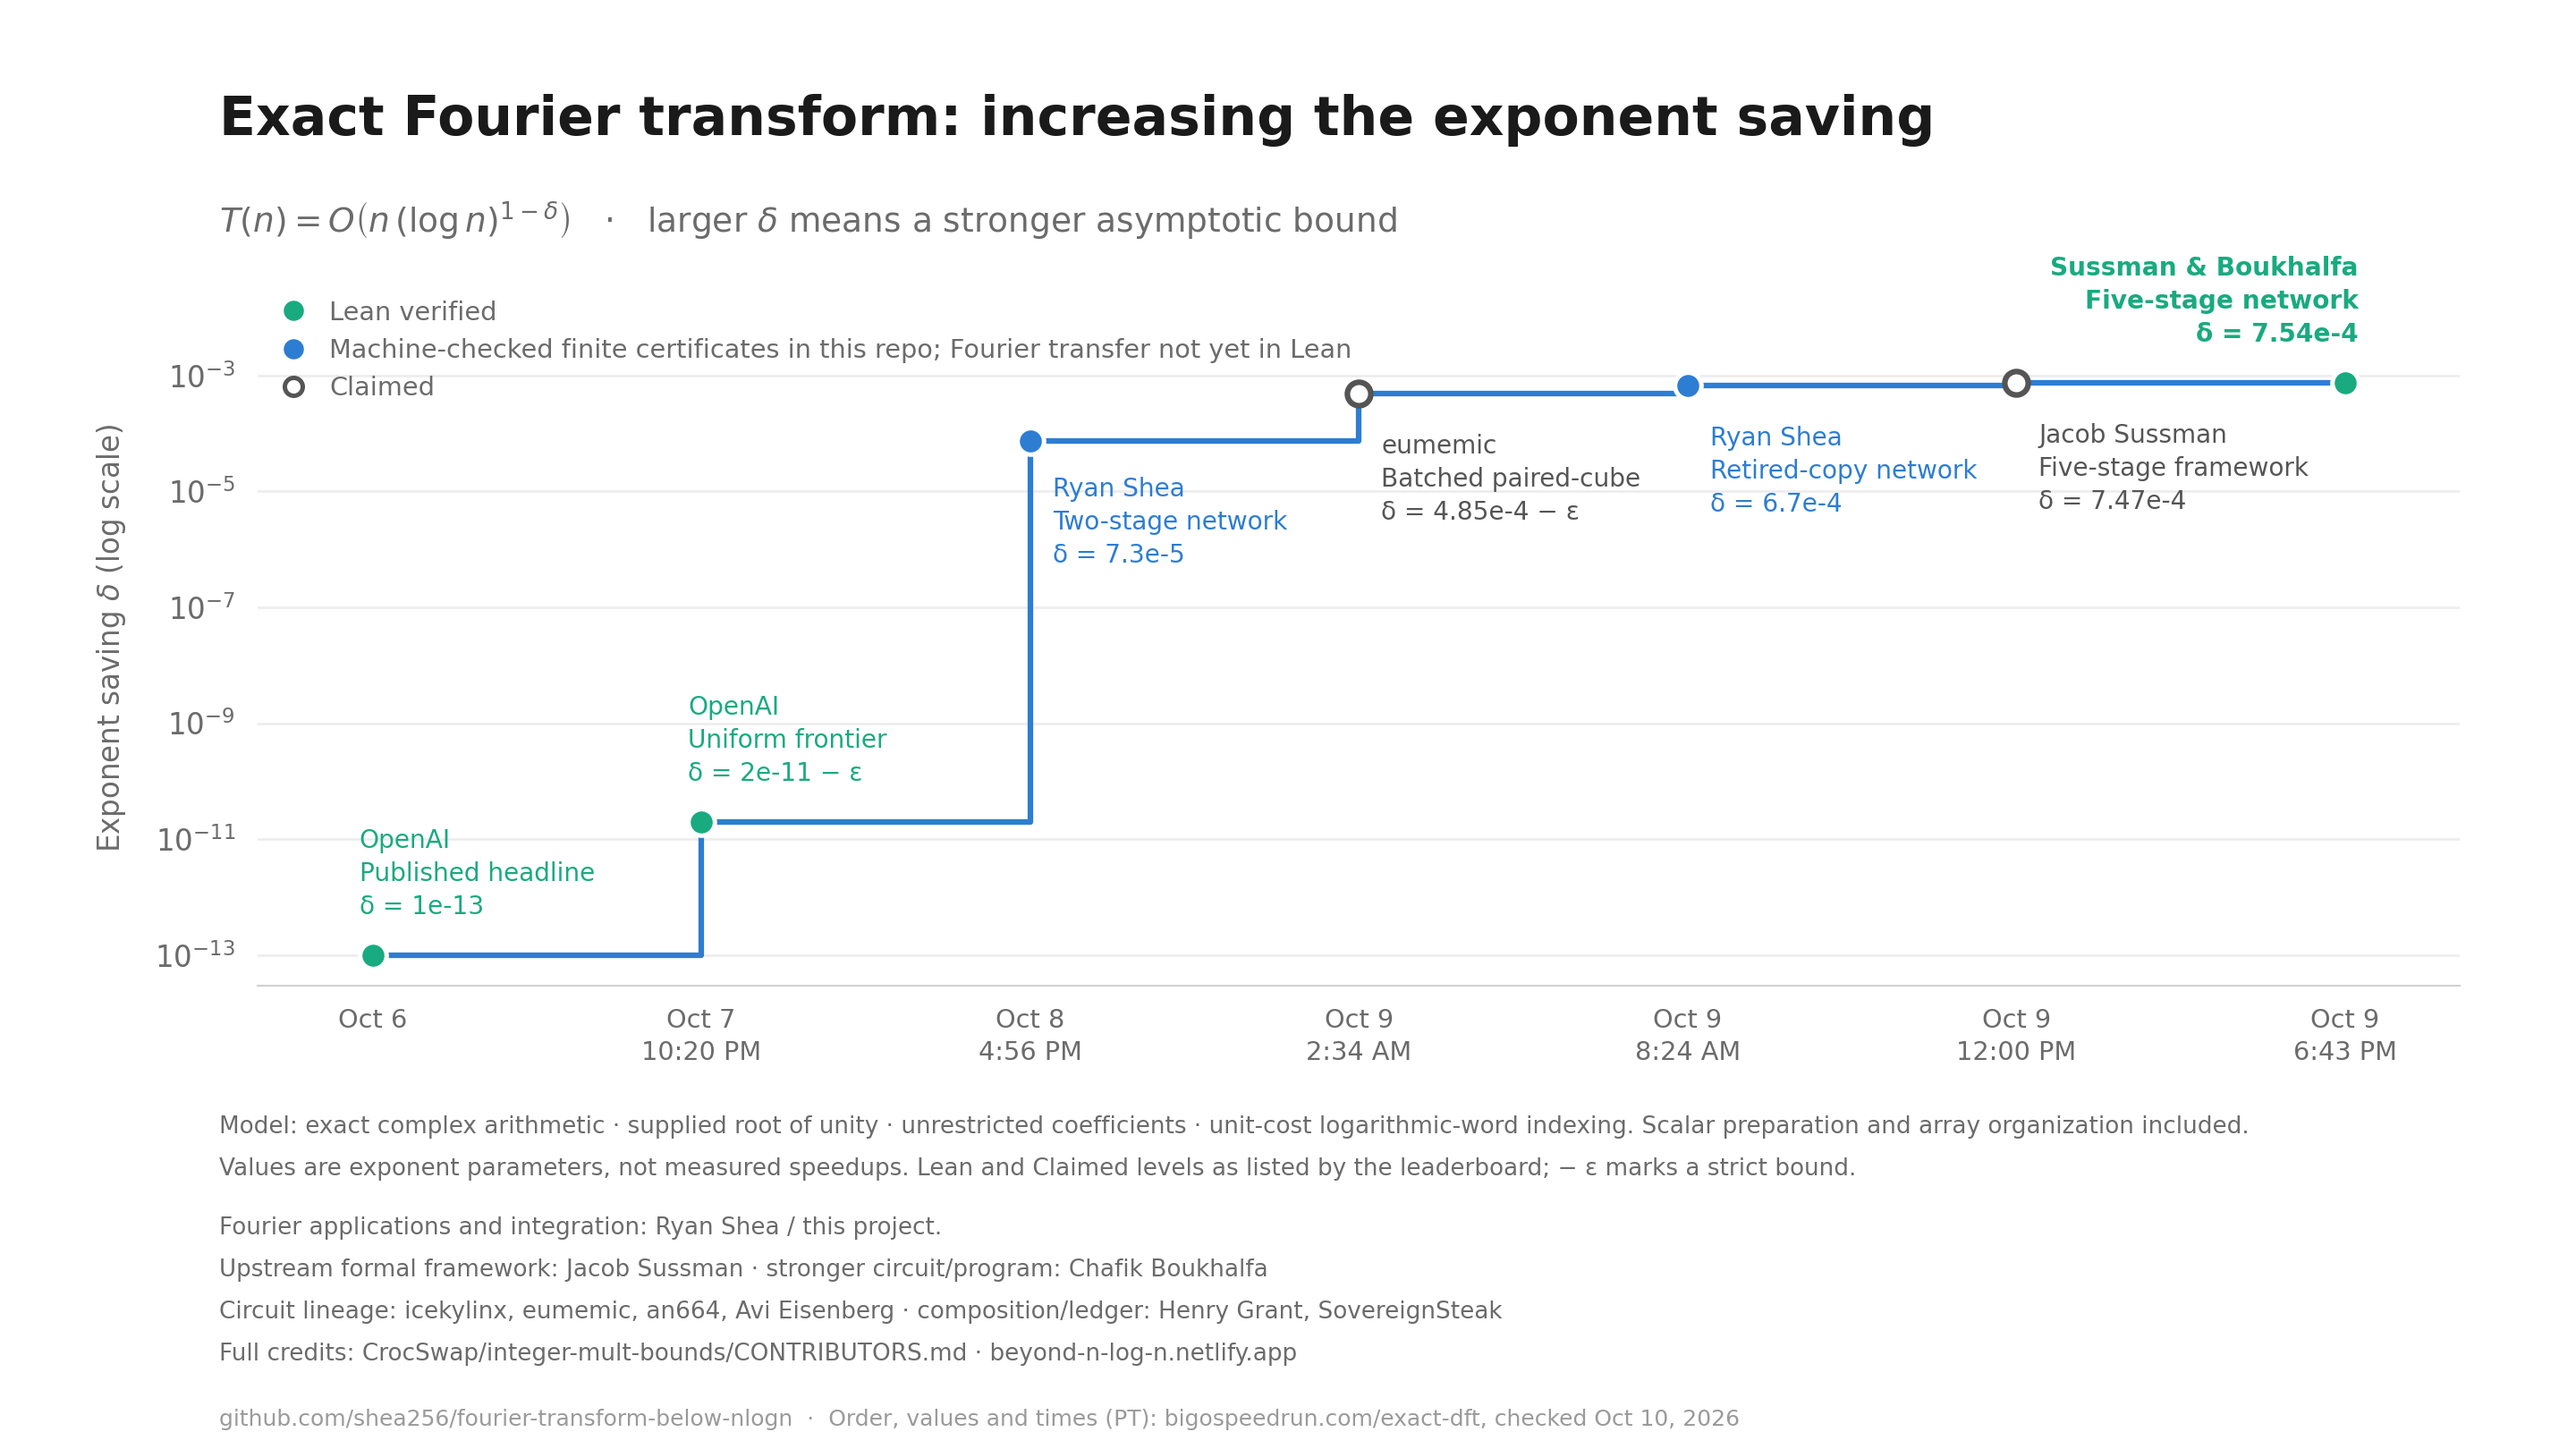
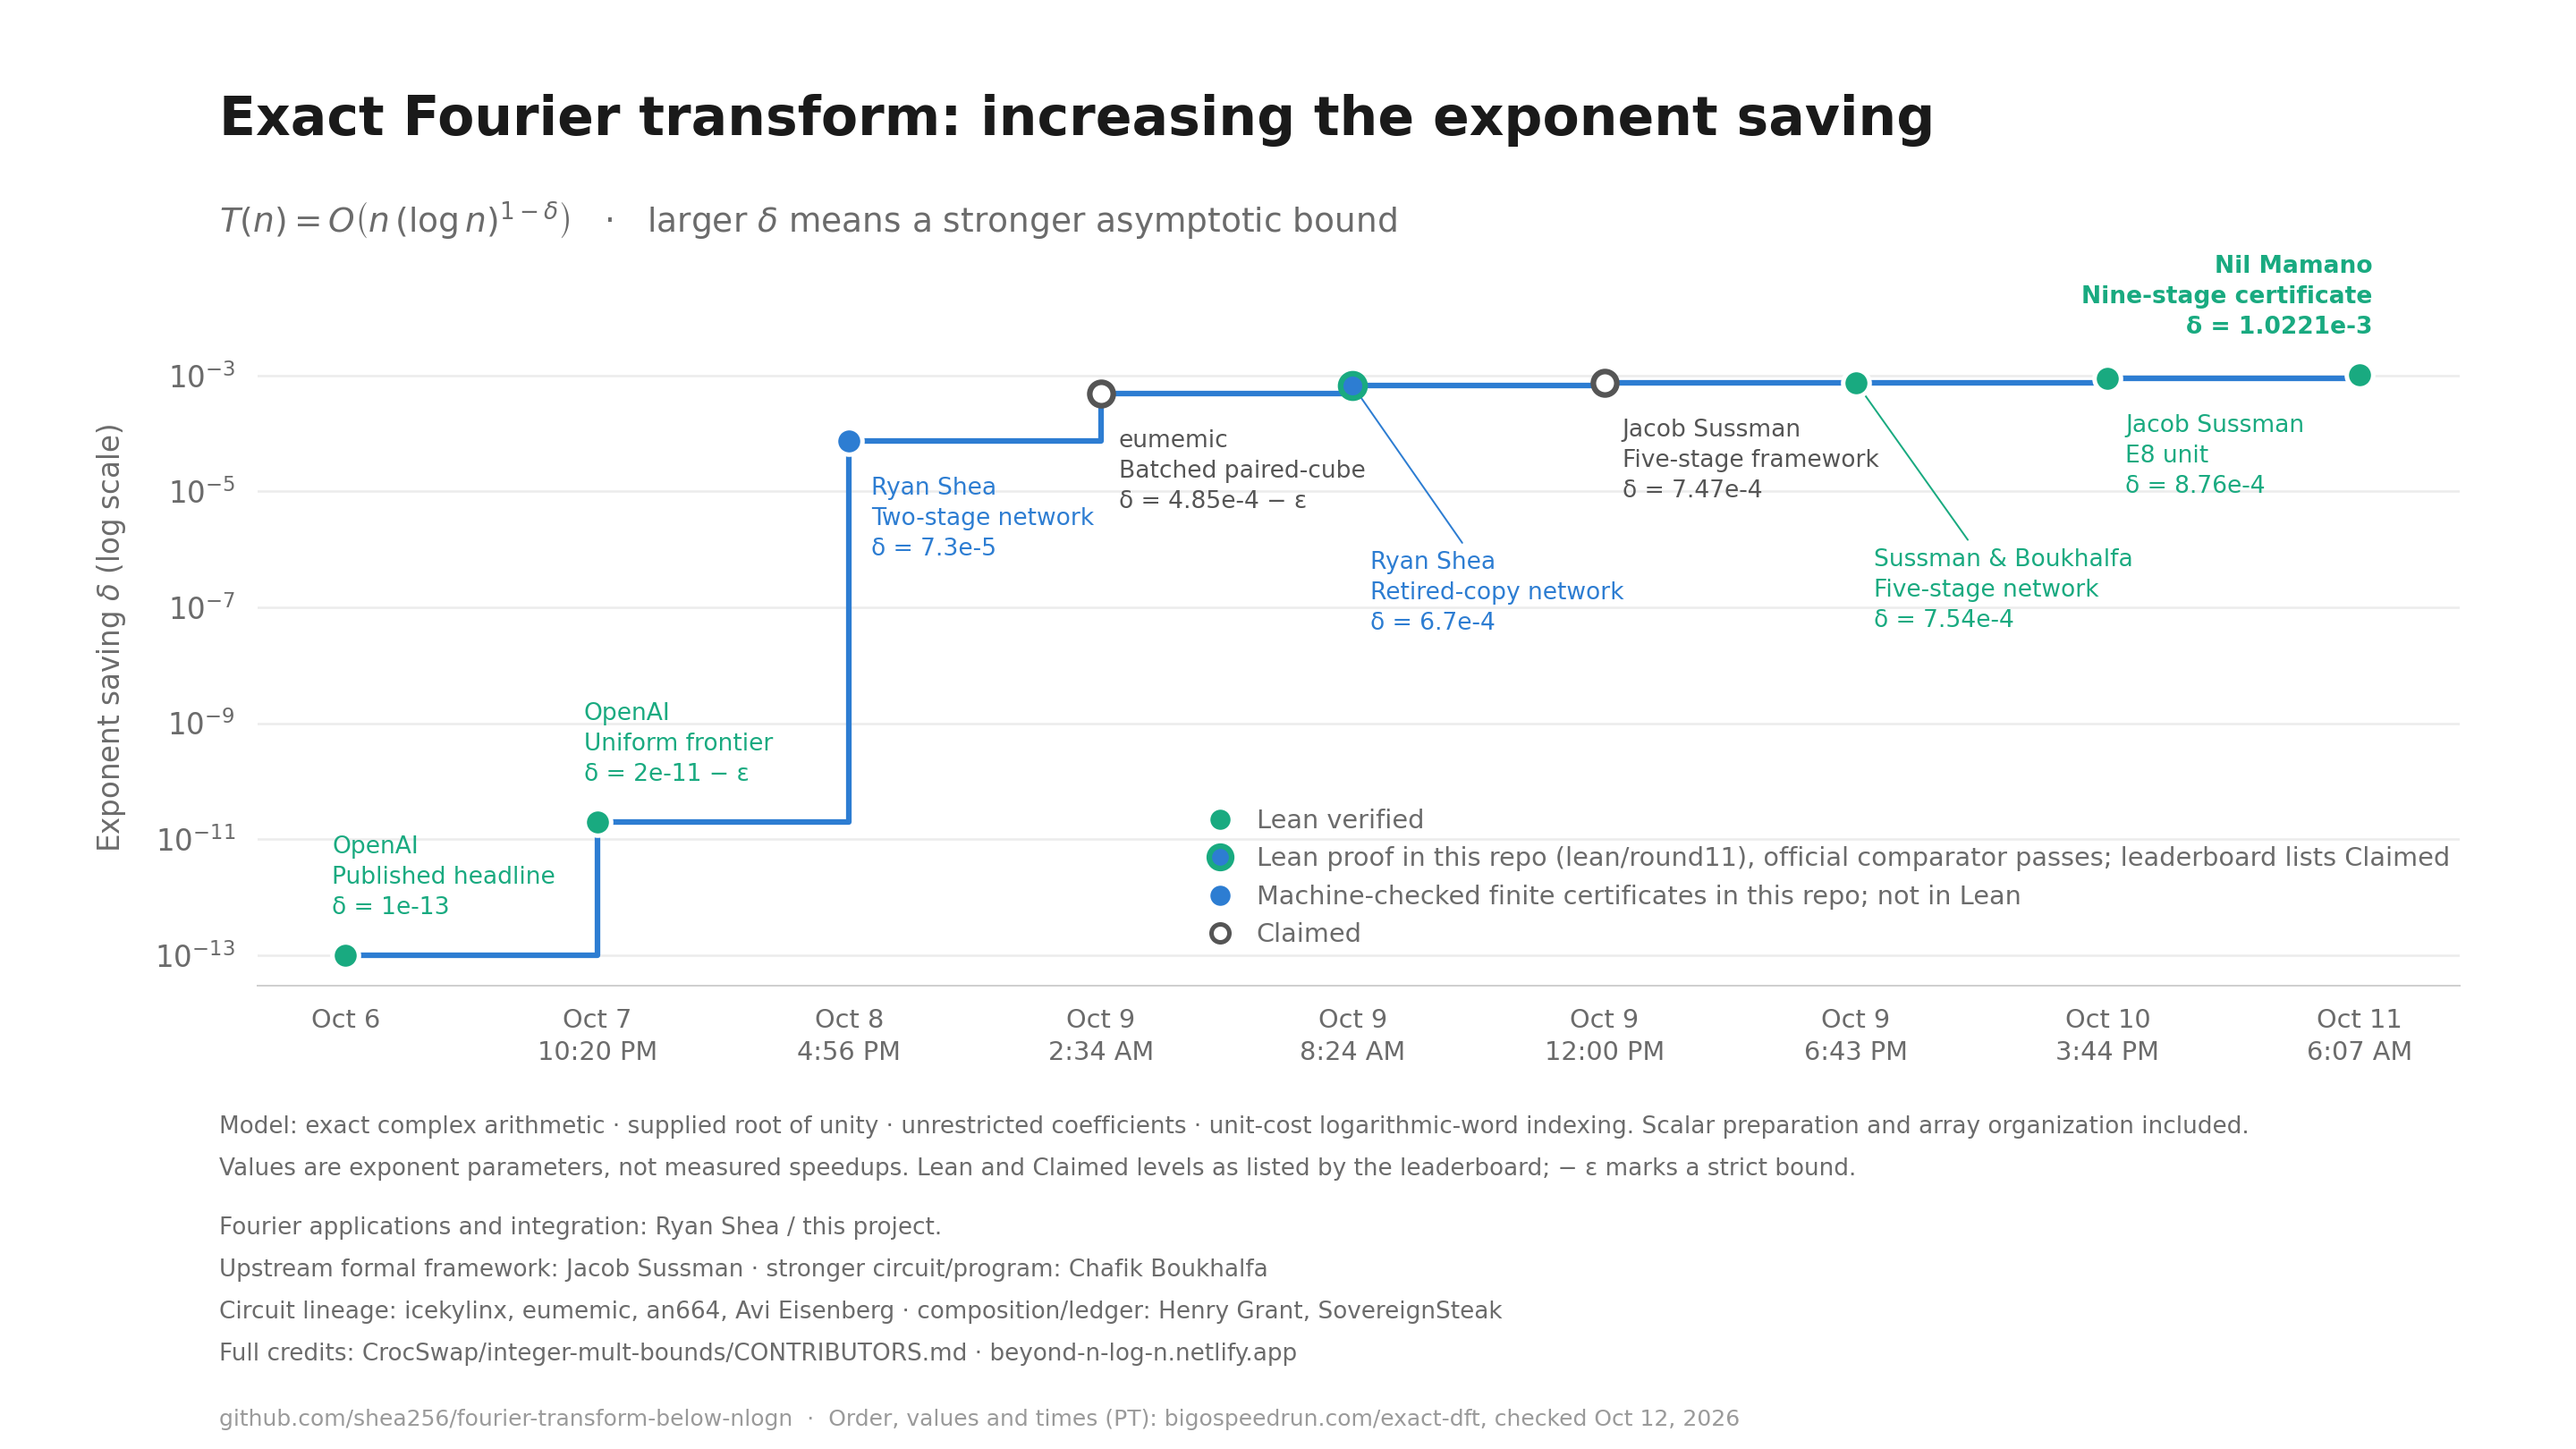
Record nanoda result, link the Lean proof, and update the progress chart
- lean/round11/receipt: official comparator with nanoda enabled accepts
  Race.bound (nanoda and Lean kernels).
- results/round11.md and the README chart caption point to lean/round11
  and state its scope.
- Chart: add Sussman's E8 (8.76e-4) and Nil Mamano's (1.0221e-3) Lean
  verified records from the leaderboard (checked 2026-10-12), and mark the
  6.7e-4 row as having a Lean proof in this repo.

diff --git a/scripts/render_progress_chart.py b/scripts/render_progress_chart.py
@@ -14,19 +14,22 @@ from matplotlib.lines import Line2D
 ROOT = Path(__file__).resolve().parents[1] / 'assets'
 # (x label in PT, player, construction, exact score, displayed delta, evidence)
 # Evidence: 'lean' = Lean verified on the leaderboard; 'checked' = listed as Claimed there,
-# with exact finite certificates passing `python3 verification/run_checks.py` in this repository.
+# with exact finite certificates passing `python3 verification/run_checks.py` in this repository;
+# 'leanrepo' = listed as Claimed there, with a Lean proof in lean/round11 that passes the official comparator locally.
 ROWS = [
     ('Oct 6', 'OpenAI', 'Published headline', '1/10000000000000', '1e-13', 'lean'),
     ('Oct 7\n10:20 PM', 'OpenAI', 'Uniform frontier', '1/50000000000', '2e-11 \u2212 \u03b5', 'lean'),
     ('Oct 8\n4:56 PM', 'Ryan Shea', 'Two-stage network', '73/1000000', '7.3e-5', 'checked'),
     ('Oct 9\n2:34 AM', 'eumemic', 'Batched paired-cube', '607/1250000', '4.85e-4 \u2212 \u03b5', 'claimed'),
-    ('Oct 9\n8:24 AM', 'Ryan Shea', 'Retired-copy network', '67/100000', '6.7e-4', 'checked'),
+    ('Oct 9\n8:24 AM', 'Ryan Shea', 'Retired-copy network', '67/100000', '6.7e-4', 'leanrepo'),
     ('Oct 9\n12:00 PM', 'Jacob Sussman', 'Five-stage framework', '3737273/5000000000', '7.47e-4', 'claimed'),
     ('Oct 9\n6:43 PM', 'Sussman & Boukhalfa', 'Five-stage network', '47171/62500000', '7.54e-4', 'lean'),
+    ('Oct 10\n3:44 PM', 'Jacob Sussman', 'E8 unit', '4381239/5000000000', '8.76e-4', 'lean'),
+    ('Oct 11\n6:07 AM', 'Nil Mamano', 'Nine-stage certificate', '2555269/2500000000', '1.0221e-3', 'lean'),
 ]
 ys = [float(Fraction(r[3])) for r in ROWS]
 assert ys == sorted(ys), 'each leaderboard entry should improve the record'
-assert ys[-1] == 0.000754736
+assert ys[-1] == 0.0010221076
 evidence = [r[5] for r in ROWS]
 gray, blue, green = '#555555', '#2d7dd2', '#19aa80'
 ink, muted, faint = '#1a1a1a', '#6b6b6b', '#9a9a9a'
@@ -40,7 +43,7 @@ fig.text(L, .862, r'$T(n) = O\left(n\,(\log n)^{1-\delta}\right)$   ·   larger 
          fontsize=15, color=muted, va='top')
 ax.set_yscale('log')
 ax.set_ylim(3e-14, .03)
-ax.set_xlim(-.35, 6.35)
+ax.set_xlim(-.35, 8.4)
 ax.set_yticks([1e-13, 1e-11, 1e-9, 1e-7, 1e-5, 1e-3])
 ax.set_yticklabels([rf'$10^{{{e}}}$' for e in (-13, -11, -9, -7, -5, -3)])
 ax.set_ylabel(r'Exponent saving $\delta$ (log scale)', labelpad=12, color=muted)
@@ -57,6 +60,8 @@ ax.step(range(n), ys, where='post', color=blue, lw=2.5, zorder=2, solid_joinstyl
 for i in range(n):
     if evidence[i] == 'lean':
         ax.scatter([i], [ys[i]], s=140, color=green, edgecolors='white', linewidths=2, zorder=4)
+    elif evidence[i] == 'leanrepo':
+        ax.scatter([i], [ys[i]], s=120, color=blue, edgecolors=green, linewidths=2.5, zorder=4)
     elif evidence[i] == 'checked':
         ax.scatter([i], [ys[i]], s=140, color=blue, edgecolors='white', linewidths=2, zorder=4)
     else:
@@ -64,23 +69,27 @@ for i in range(n):
 
 def label(i, dx, dy, ha='left', va='bottom'):
     _, player, name, _, value, level = ROWS[i]
-    color = {'lean': green, 'checked': blue, 'claimed': gray}[level]
+    color = {'lean': green, 'leanrepo': blue, 'checked': blue, 'claimed': gray}[level]
     ax.annotate(f'{player}\n{name}\n' + '\u03b4 = ' + value, xy=(i, ys[i]), xytext=(dx, dy),
-                textcoords='offset points', fontsize=11.2, color=color, ha=ha, va=va, linespacing=1.4,
+                textcoords='offset points', fontsize=10.6, color=color, ha=ha, va=va, linespacing=1.4,
+                arrowprops=dict(arrowstyle='-', color=color, lw=.8, shrinkA=2, shrinkB=6) if dy < -40 else None,
                 fontweight='semibold' if i == n - 1 else 'normal')
 
 label(0, -6, 16)
 label(1, -6, 16)
 label(2, 10, -16, va='top')
-label(3, 10, -18, va='top')
-label(4, 10, -18, va='top')
-label(5, 10, -18, va='top')
-label(6, 6, 16, ha='right')
+label(3, 8, -16, va='top')
+label(4, 8, -74, va='top')
+label(5, 8, -16, va='top')
+label(6, 8, -74, va='top')
+label(7, 8, -16, va='top')
+label(8, 6, 16, ha='right')
 ax.legend(handles=[
     Line2D([], [], marker='o', color=green, markeredgecolor='white', linestyle='none', markersize=10, label='Lean verified'),
-    Line2D([], [], marker='o', color=blue, markeredgecolor='white', linestyle='none', markersize=10, label='Machine-checked finite certificates in this repo; Fourier transfer not yet in Lean'),
+    Line2D([], [], marker='o', color=blue, markeredgecolor=green, markeredgewidth=2.5, linestyle='none', markersize=10, label='Lean proof in this repo (lean/round11), official comparator passes; leaderboard lists Claimed'),
+    Line2D([], [], marker='o', color=blue, markeredgecolor='white', linestyle='none', markersize=10, label='Machine-checked finite certificates in this repo; not in Lean'),
     Line2D([], [], marker='o', color=gray, markerfacecolor='white', markeredgewidth=2, linestyle='none', markersize=8, label='Claimed')],
-    loc='upper left', bbox_to_anchor=(0, 1.0), frameon=False, fontsize=11.5, labelcolor=muted,
+    loc='lower right', bbox_to_anchor=(1.0, 0.04), frameon=False, fontsize=11.5, labelcolor=muted,
     handletextpad=.4, borderaxespad=0)
 
 notes = [
@@ -96,7 +105,7 @@ y = .218
 for k, (text, color) in enumerate(notes):
     fig.text(L, y, text, fontsize=10.5, color=color)
     y -= .029 if k != 1 else .041
-fig.text(L, .016, 'github.com/shea256/fourier-transform-below-nlogn  ·  Order, values and times (PT): bigospeedrun.com/exact-dft, checked Oct 10, 2026',
+fig.text(L, .016, 'github.com/shea256/fourier-transform-below-nlogn  ·  Order, values and times (PT): bigospeedrun.com/exact-dft, checked Oct 12, 2026',
          fontsize=10, color=faint)
 fig.savefig(ROOT / 'fourier-exponent-progress.png', dpi=180, facecolor='white')
 print('Saved assets/fourier-exponent-progress.png (2880 × 1620).')

diff --git a/results/round11.md b/results/round11.md
@@ -108,7 +108,7 @@ The framework gives the proposed all-length saving $\delta=0.00067$, conditional
 
 Run `python3 verification/verify_round11.py`; its report must match `verification/certificates/round11_reference.json`. Source hashes, the published inventory and the Lean input histogram are checked. The upstream replay and its negative controls are identified as imported; the local checker additionally rejects a wrong subtraction sign, omitted gauge correction, missing terminal post-shear and the excessive next tensor grid point.
 
-The default Python suite does not rerun the network search or Lean compiler. The supplied Lean file certifies numerical predicates, not this scalar compiler, the physical network or Fourier transfer. Same-assistant implementations are not independent review. General exact-frame compatibility, cover and completed-core interfaces, the uniform cost model and the all-length reduction remain mathematical review obligations. Earlier witnesses and checks remain available independently.
+The default Python suite does not rerun the network search or Lean compiler. The supplied Lean file certifies numerical predicates, not this scalar compiler, the physical network or Fourier transfer. Separately, [lean/round11](../lean/round11/) (added 2026-10-11) proves the all-length Fourier statement at `delta=0.00067` in Lean with this record's circuit, placed in Sussman's five-stage layout; it does not formalize the written transfer here. Same-assistant implementations are not independent review. General exact-frame compatibility, cover and completed-core interfaces, the uniform cost model and the all-length reduction remain mathematical review obligations. Earlier witnesses and checks remain available independently.
 
 Jain supplies the round-eleven integration, C1 word and selected matching. Retirement reuse is credited to icekylinx, terminal-target compilation to James Chang / jamesyc, and the retained modules and frame/late-read lineage to eumemic. [J11]'s NOTICE also credits Chafik Boukhalfa's [PR176 terminal paired cubes](https://github.com/CrocSwap/integer-mult-bounds/pull/176), whose use of terminal deletion this word follows, and identifies his [PR181 shared-edge configuration](https://github.com/CrocSwap/integer-mult-bounds/pull/181) as related to the chosen C1 circuit. Section 6 and the acknowledgements retain the frame, cover, sharing and earlier construction credits, including an664, DaysSky, Rohan Arun, Aurel Prosz, Douglas Colkitt and OpenAI. We propose the Fourier transfer and supply additional checks; we do not claim those network improvements as our own.
 

diff --git a/README.md b/README.md
@@ -4,7 +4,7 @@ A living research project on **OpenAI Math Problem #130**, *An explicit power sa
 
 ![Exact Fourier transform: exponent-saving record progression](assets/fourier-exponent-progress.png)
 
-<sub>Record order and values from the [Big O Speedrun exact-DFT leaderboard](https://bigospeedrun.com/exact-dft), checked 2026-10-10. The leaderboard lists our 7.3e-5 and 6.7e-4 results as Claimed; the chart marks the exact finite certificates that `python3 verification/run_checks.py` checks for them, while their Fourier transfers are not yet formalized in Lean. Regenerate with `python3 scripts/render_progress_chart.py` (requires Matplotlib).</sub>
+<sub>Record order and values from the [Big O Speedrun exact-DFT leaderboard](https://bigospeedrun.com/exact-dft), checked 2026-10-12. The leaderboard lists our 7.3e-5 and 6.7e-4 results as Claimed. Our 6.7e-4 result now has a [Lean proof](lean/round11/) that passes the official comparator (Lean and nanoda kernels) locally; it uses the round-eleven circuit in Sussman's five-stage layout, not our written transfer. The 7.3e-5 point is backed by exact finite certificates (`python3 verification/run_checks.py`), not Lean. Regenerate with `python3 scripts/render_progress_chart.py` (requires Matplotlib).</sub>
 
 <!-- current-result:start -->
 

diff --git a/lean/round11/README.md b/lean/round11/README.md
@@ -84,6 +84,10 @@ target, kept as `receipt/VerifierChallenge-67-100000.lean`) and built from sourc
   lean4export `076e8e5`), with the verifier's configuration (`Race.bound`, the three permitted axioms): "Lean default
   kernel accepts the solution" / "Your solution is okay!", exit 0, 2385 s, 11.3 GB
   (`receipt/official-comparator-lean.log`, full log `receipt/official-comparator-lean-full.log.gz`).
+- The same comparator with `enable_nanoda` (the verifier's advisory second kernel): "nanoda kernel accepts the
+  solution", then "Lean default kernel accepts the solution" / "Your solution is okay!", exit 0, 2658 s, 12.0 GB with
+  16 GB of swap as the verifier provides (`receipt/official-comparator-nanoda.log`, full log
+  `receipt/official-comparator-nanoda-full.log.gz`).
   This VM's kernel has no Landlock, so `landrun` was replaced by a pass-through wrapper (no sandbox); the sandbox
   isolates untrusted submissions and takes no part in the check itself.
 
